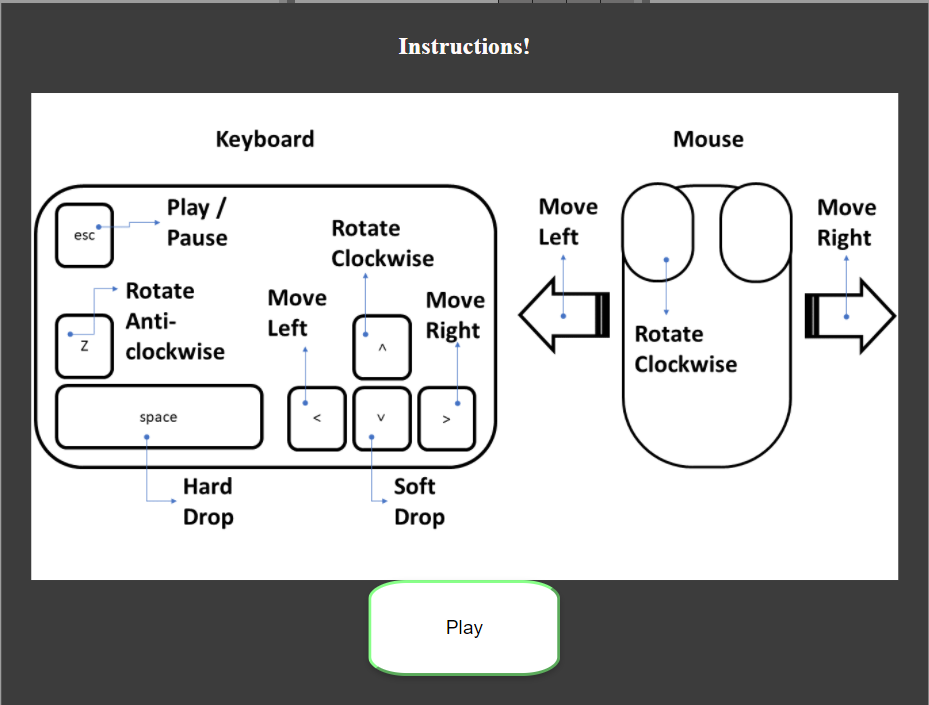
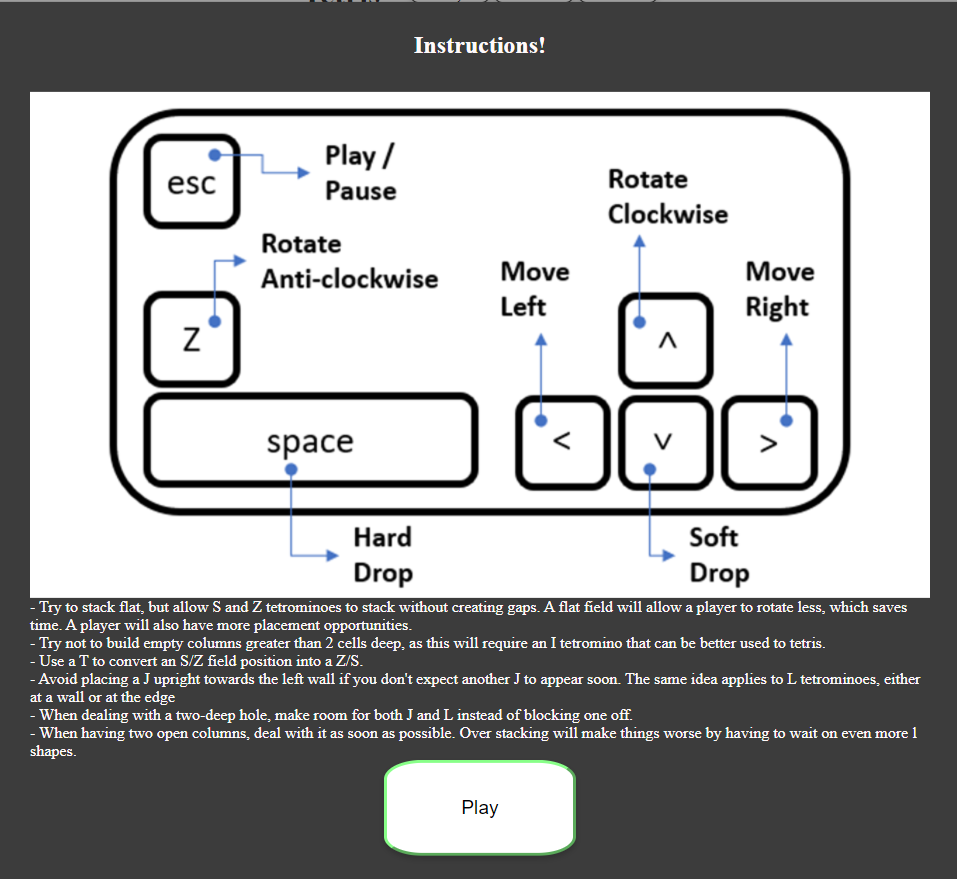
Docs: update sections with features images

diff --git a/README.md b/README.md
@@ -87,11 +87,11 @@ The live website can be found [here](https://bogdancatalin-iacob.github.io/Tetri
         - The largest part of the tetris game consists of the playfield measuring ten spaces across by twenty spaces down. It has other parts explained below.
         - Randomly selected tetrominoes, or shapes consisting of four square blocks, fall from the top of the playfield one at a time. Each tetromino enters the playfield with a random orientation and a specific color depending on its shape. 
         - Part of the tetris game (top roght corner) measuring 4 spaces across and 4 spaces down is called the piece preview, and shows the next pieces that will enter the playfield.
-        - The player can rotate the falling tetromino ninety degrees (90deg) at a time within the playfield by pressing the clockwise rotation button (Arrow Up) / left mouse button / tap (on touch screens) or anti clockwise button (z) if the piece has room to rotate.
-        - The player can shift (slide) the falling tetromino sideways one space at a time by pressing the left arrow / move the mouse towards left / drag left (on touch screens) or right arrow / move the mouse towards right / drag right (on touch screens). 
+        - The player can rotate the falling tetromino ninety degrees (90deg) at a time within the playfield by pressing the clockwise rotation button (Arrow Up) or anti clockwise button (z) if the piece has room to rotate.
+        - The player can shift (slide) the falling tetromino sideways one space at a time by pressing the left arrow or right arrow on keyboard (large screens) or press the corresponding buttons on mobile devices. 
         - Pieces cannot shift through walls or other blocks.
         - Each tetromino moves downward slowly by itself. 
-        - Generally a player can use a method to "drop" the tetromino (pressing spacebar on keyboard), or make it move downward faster (pressing Down Arrow on keyboard or dragging down on touch devices). Once the tetromino lands on the floor or other blocks, the piece will delay shortly before locking in place giving the player time to move it. After locking, a player can no longer move the tetromino.
+        - Generally a player can use a method to "drop" the tetromino (pressing spacebar on keyboard or corresponding button on mobile devices), or make it move downward faster (pressing Down Arrow on keyboard or corresponding button on mobile devices). Once the tetromino lands on the floor or other blocks, the piece will delay shortly before locking in place giving the player time to move it. After locking, a player can no longer move the tetromino.
         - When a tetromino locks and by doing so fills all empty spaces within one or more rows of the playfield, those full rows will clear. Remaining blocks above will move down by as many rows removed.
         - When lines are cleared some score will be awarded to player.
         - If the playfield has not filled up with blocks, the next piece enters.
@@ -120,19 +120,41 @@ The live website can be found [here](https://bogdancatalin-iacob.github.io/Tetri
             - Down Arrow - move the piece down faster
             - z - rotate piece 90deg anti clockwise
             - space bar - hard drop
-        - Standard mapping for mouse:
-            - Slide mouse left - move the piece to left one cell if no obstruction
-            - Slide mouse right - move the piece to right one cell if no obstruction
-            - Left click - rotate the tetromino clockwise
-        - Standard mapping for touch
-            - Drag left - move the piece to left one cell if no obstruction
-            - Drag right - move the piece to right one cell if no obstruction
-            - Drag down - move the piece to down faster
-            - Tap - rotate clockwise
+        - Standard mapping for mobile
+            - mobile devices will have displayed two buttons on the sides of the playfield for left / right piece slide and
+             four buttons under the playfield for rotation and drop down
         - Use of half second initial lock delay which will be decreased when level is going up
         - Next shape is displayed immediately after the playing tetromino gets out of the top right corner (mini grid)
         - When a row is fully covered / taken it must dissapear and score must be increased (line clear)
-        - Top Score will be saved on local storage
+
+         - Custom CSS will be used to make the Website responsive by the use of media queries.
+        - The website will be responsive and the layouts will change dependant on screen size. This is to ensure content flow is appealing,
+            the game is displayed properly, the content is not shrunk side by side and the text is readable.
+        - The game will be resized to fit on the mobile screens and a set of buttons will be displayed to control the game.
+            - The purpose of this is to fulfill user story:
+            > I want to view the game and content clearly on my mobile device.
+
+        - An instruction modal will pop-up every time when the game is started.
+            An instructions buttons is displayed in the top right corner of the game and can be accessed at any time during the game.
+            ![instructions button](assets/images/Features-images/instructions-button.png)<br>
+            When instructions are displayed the game is paused.
+            - The purpose of this is to fulfill user story:
+            > I want to find the game instructions easily.
+
+        - Top score will be displayed in the top left corner and saved on local storage.
+            ![top score](assets/images/Features-images/score-topScore-level.PNG)<br>
+            - The purpose of this is to fulfill user story:
+            > I want to know what is the highest score.
+
+        - Keyboard keys are mapped (for large screens) and buttons are assigned (for mobile devices) to move down faster or drop the tetromino.
+        ![drop-down-keys](assets/images/Features-images/keyboard-drop.png)<br>
+        ![drop-down-buttons](assets/images/Features-images/mobile-drop.png)<br>
+            - The purpose of this is to fulfill user story:
+            > I want to be able to fast drop the pieces.
+
+        - An icon in made with Favicon will be displayed in the browser's tab.
+        !favicon](assets/images/Features-images/favicon.PNG)<br>
+            > This let users easily find the page in the browser.
 
     -   #### Game Mechanics
 
@@ -179,24 +201,6 @@ The live website can be found [here](https://bogdancatalin-iacob.github.io/Tetri
         - When dealing with a two-deep hole, make room for both J and L instead of blocking one off.
         - When having two open columns, deal with it as soon as possible. Over stacking will make things worse by having to wait on even more l shapes.
 
-
-<!-- The purpose of this is to fulfill user story:
-> 
-
-
-The purpose of this is to fulfill user story:
->  -->
-
-- Custom CSS will be used to make the Website responsive by the use of media queries.
-
-<!-- - The website will be responsive and the layouts will change dependant on screen size. This is to ensure content flow is appealing,
-images are displayed properly and that the content is not shrunk side by side, so small that it is unreadable.
-The purpose of this is to fulfill user story:
-> As a First Time user, I want to view the game and content clearly on my mobile device. -->
-
-- An icon in made with Favicon will be displayed in the browser's tab.
-> This let users easily find the page in the browser.
-
 -   ### Design
     -   #### Colour Scheme
         - The main colours used are: 
@@ -220,6 +224,7 @@ The purpose of this is to fulfill user story:
     -   #### Wireframes
 Home Page<br>
 ![Home Page Wireframe](assets/images/Wireframes/wieframes.PNG)<br>
+![Mobile Wireframe](assets/images/Features-images/mobile-wireframe.png)<br>
 
 -   ### Limitations
     - Top score is saved on local storage due to no database
@@ -241,8 +246,7 @@ Home Page<br>
     <br>
     - Sound Effects
     - Instructions Modal
-    ![instructions-keyboard-mouse](assets/images/Features-images/instructions.PNG)
-    ![instructions-touch](assets/images/Features-images/instructions-touch.PNG)
+    ![instructions-keyboard](assets/images/Features-images/instructions-modal.PNG.jpg)
     <br>
     - Next shape display
     ![next-shape](assets/images/Features-images/next-shape.PNG)
@@ -255,13 +259,7 @@ Home Page<br>
     - Rotation system
     - Collision detection
     - Keyboard controls
-    - Mouse controls
-    ![keyboard-mouse](assets/images/Features-images/keyboard-mouse.PNG)
-    <br>
-    - Touch controls
-    ![touch-controls](assets/images/Features-images/touch-controls.PNG)
-    <br>
-
+    
 - Icon in the browser tab<br>
     ![browser-tab-icon](assets/images/Features-images/favicon.PNG)<br>
 
@@ -269,6 +267,8 @@ Home Page<br>
     - Ghost piece
     - Ask name of the player before game start
     - Save name, level, top score on cloud
+    - Touch gestures
+    - Mouse controls
 
 ***
 
@@ -280,8 +280,6 @@ Home Page<br>
 	* This project uses custom written CSS to style the Website.
 * JavaScript
     * This project is interactive with the help of JavaScript
-* [Font Awesome](https://fontawesome.com/)
-	* Font awesome Icons are used for the Social media links contained in the Footer section of the website and for the benefits found on the index.html page.
 * [Google Fonts](https://fonts.google.com/)
 	* Google fonts are used throughout the project to import the *Spectral* and *Lora* fonts.
 * [Gitpod](https://gitpod.io/)
@@ -337,10 +335,12 @@ Home Page<br>
 
         - #### Clockwise and Anti-Clockwise rotate 
             - rotation must display the shape in the next logical position by pressing:
-                - Up Arrow key for clockwise rotation
-                - Z key for Anti-Clockwise rotation 
-                - mouse left click for Clockwise rotation
-                - touch displays tap for Clockwise rotation
+                - Up Arrow key for clockwise rotation -> work as expected
+                - Z key for Anti-Clockwise rotation  -> work as expected
+
+                Mobile:
+                - Clockwise rotation button -> work as expected
+                - Anti-clockwise rotation button -> work as expected
             - if the next rotated position is getting the shape over the walls /floor limit or overlap another shape it will be reverted and the shape appears in the previous rotation
             -  work as expected
 
@@ -349,14 +349,12 @@ Home Page<br>
 
         - #### Shape hit the left or right wall
             - if the shape touches the left or right wall with any of the sides it must not go through and continue normal moving down
-                - Left Arrow key for sliding left
-                - Right Arrow key for sliding right 
-                - Move mouse left for sliding left
-                - Move mouse right for sliding right
-                - Touch displays:
-                    - Drag left for sliding left
-                    - Drag right for sliding right
-            - work as expected
+                - Left Arrow key for sliding left -> work as expected
+                - Right Arrow key for sliding right -> work as expected
+
+                Mobile:
+                - Left button for sliding left -> work as expected
+                - Right button for sliding right -> work as expected
 
         - #### Shape hit the another shape
             - if the shape touches another shape with any of the sides it must not overlap -> work as expected
@@ -364,8 +362,9 @@ Home Page<br>
 
         - #### Shape soft drop and hard drop
             - faster down movement can be done by pressing Down Arrow Key -> work as expected
-            - faster down movement on mobile devices can be don e by dragging down -> work as expected
+            - faster down movement on mobile devices can be done by pressing Move Down button -> work as expected
             - instant drop can be done by pressing Spacebar key - it will place the shape on the last available free space and lock it in place with no delay -> work as expected
+            - instant drop on mobile can be done by pressing Drop button  -> work as expected
             
         - #### Shape color
             - each shape must have its own color (as described in [list of rules](#list-of-rules)) and keep it throughout the game -> work as expected
@@ -389,10 +388,9 @@ Home Page<br>
 
         - #### Modal pop-up
             - start-up modal  displays game controls:
-                - for screens over 1024px keyboard and mouse controls -> work as expected
-                - for screens under 1024px touch controls -> work as expected
+                - for screens over 1024px keyboard, instructions and "Play" button are displayed -> work as expected
+                - for screens under 1024px instructions and "Play" button are displayed -> work as expected
                 - "Play" button will close the modal and start the game -> work as expected
-                - "Close" button will close the modal, but will not start the game -> work as expected
 
         - #### Score adding up and display
             - each time the player clears lines variable points will be awarded based on [scoring system](#scoring-system) -> work as expected
@@ -430,8 +428,8 @@ Home Page<br>
 
         - #### Instructions
             - when instructions button is clicked a set of helping information and an image of the controls will be displayed
-                - if the screen size is under 1024px an image of touch controls is displayed -> work as expected
-                - if the screen size is over 1024px an image of keyboard and mouse is displayed -> work as expected  
+                - if the screen size is under 1024px a pop-up with instructions is displayed -> work as expected
+                - if the screen size is over 1024px an image of keyboard and instructions are displayed -> work as expected  
                 - the game is paused -> work as expected
                 - the sound is turned off (if on) -> work as expected
             - when instructions modal is closed:
